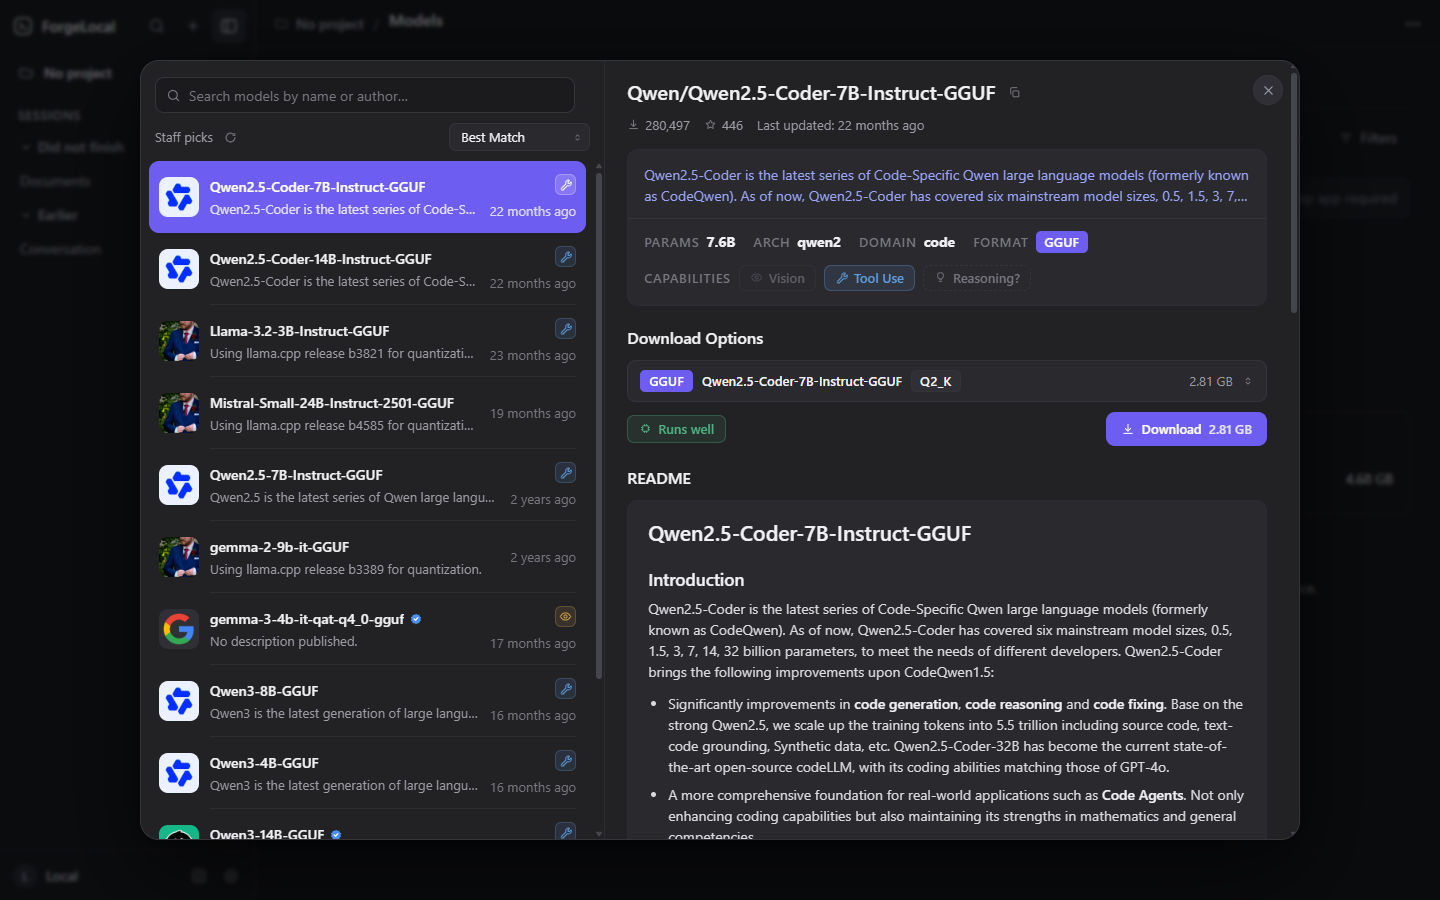
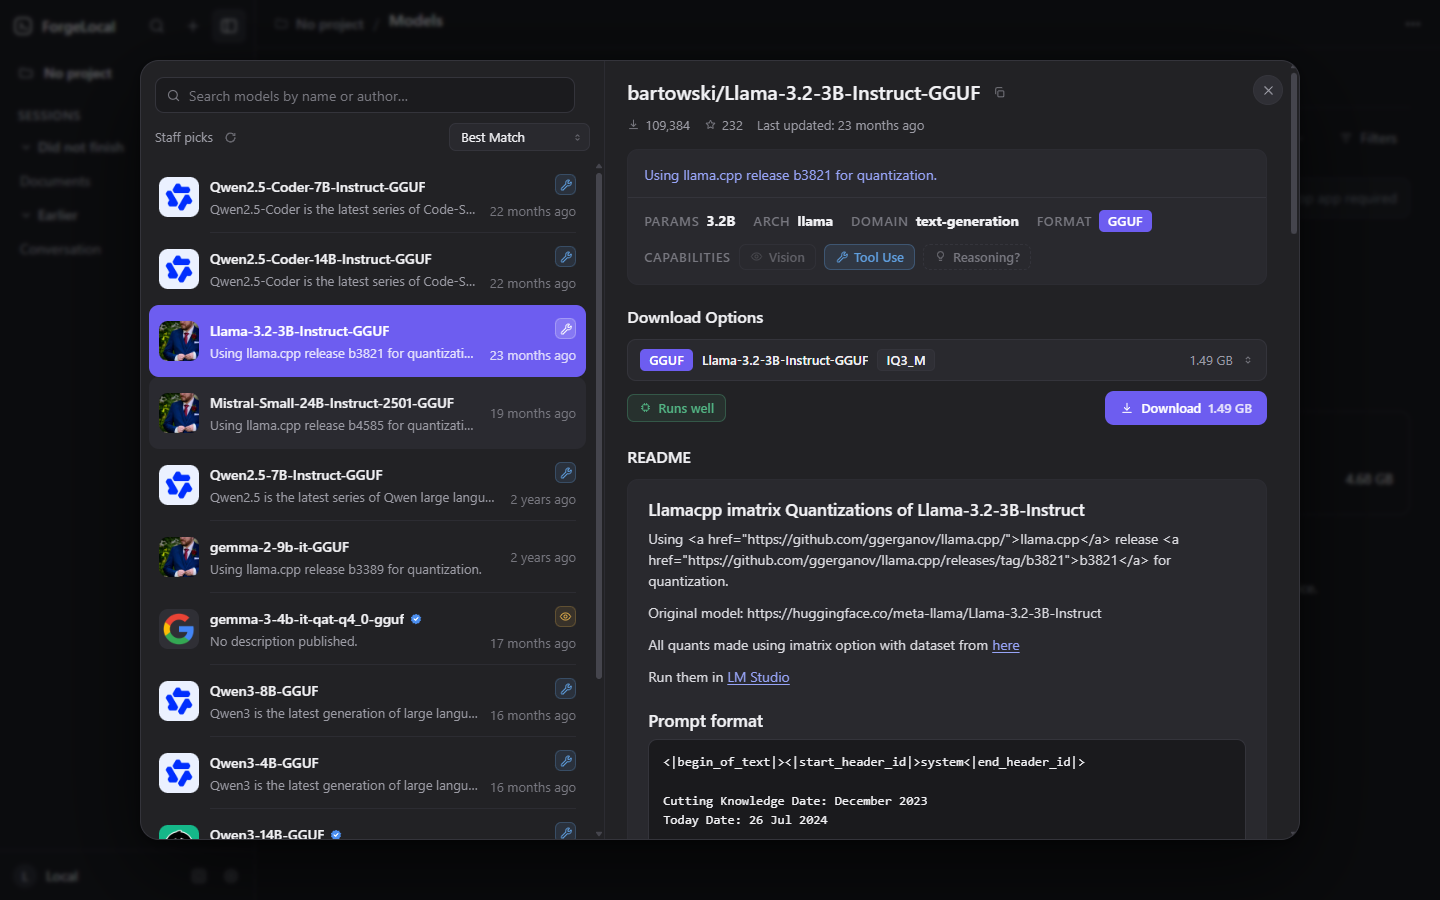
Cut model descriptions to one sentence
Reported: they should be shorter, the way LM Studio's are.

They were the first paragraph of a model card, capped at 240 characters
-- which is three sentences of marketing with an ellipsis in the middle
of the third. In a 40%-wide list row and in a summary card above the
download options that text is scanned rather than read, and a paragraph
there pushes the thing somebody came for below the fold. The full text
is in the README pane underneath and always was.

It is now the first sentence, capped at 120.

  before  Qwen2.5-Coder is the latest series of Code-Specific Qwen large
          language models (formerly known as CodeQwen). As of now,
          Qwen2.5-Coder has covered six mainstream model sizes, 0.5, 1.5,
          3, 7, 14, 32 billion parameters, to meet the needs of d…
  after   Qwen2.5-Coder is the latest series of Code-Specific Qwen large
          language models (formerly known as CodeQwen).

Finding the end of a sentence is the whole difficulty, because model
cards are full of decimal points. "Qwen2.5" and "0.5, 1.5, 3, 7, 14, 32
billion parameters" both contain stops that a naive split cuts at,
leaving a three-word description. So a stop only ends a sentence when the
character before it is a letter or a closing bracket -- never a digit --
and the character after it is whitespace and a capital, or nothing. A
sentence still longer than the limit is cut at a word and marked.

Measured in the running app: 108, 108, 47, 47 and 59 characters across
[…]

diff --git a/public/assets/forgelocal.css b/public/assets/forgelocal.css
@@ -3372,9 +3372,11 @@ a.vh:focus-visible { position: fixed; left: 12px; top: 12px; z-index: 400;
   border-radius: 11px; padding: 14px 16px; }
 .mb-rule { height: 1px; background: var(--mb-line); margin: 12px -16px; }
 
-/* Two lines, then an ellipsis. The full text is in the README below, and a
-   summary that grows to five lines pushes the download options off the
-   first screen — which is the one thing the card is above. */
+/* One sentence, and at most two lines of it. The description is now cut to
+   a sentence upstream so this is almost always a single line; the clamp is
+   the guard for a long one, because a summary that grows pushes the
+   download options off the first screen, which is the one thing the card
+   sits above. */
 .mb-lede { margin: 0; font-size: 14px; line-height: 1.5; color: var(--mb-lede);
   display: -webkit-box; -webkit-line-clamp: 2; line-clamp: 2;
   -webkit-box-orient: vertical; overflow: hidden; }
